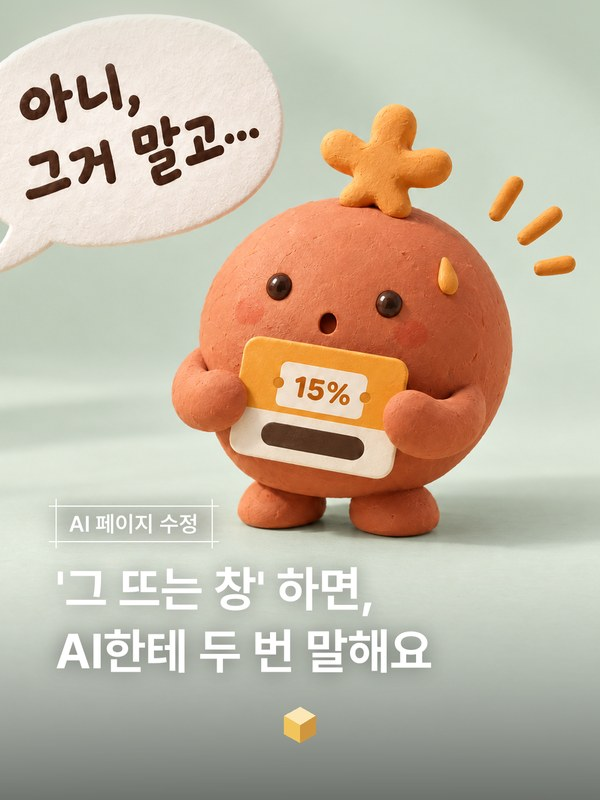
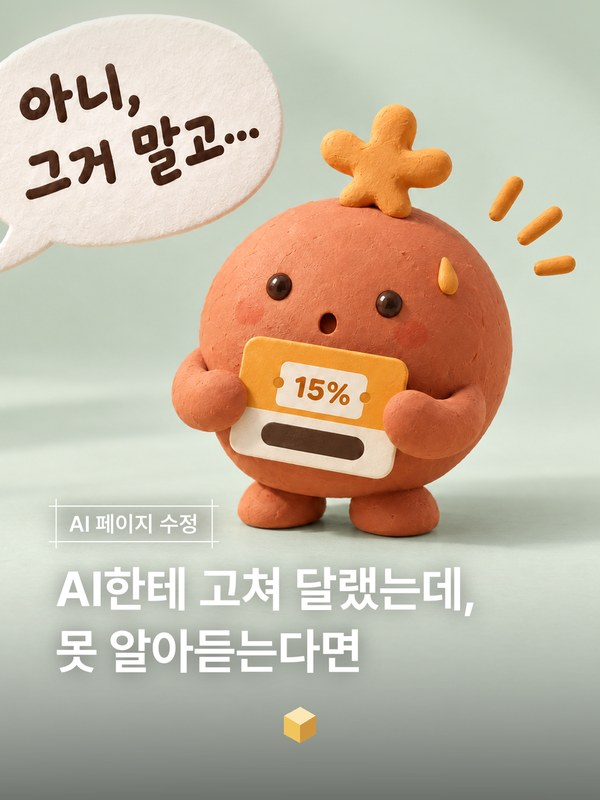
EP.19 제목 교체 — AI한테 고쳐 달랬는데, 못 알아듣는다면(노트 제목 · 목록 카드 · 커버) (목록 Soon! 유지)

Changed region(s): [[0.09, 0.6875, 0.81, 0.8438]]

diff --git a/ep/19/index.html b/ep/19/index.html
@@ -3,9 +3,9 @@
 <head>
 <meta charset="utf-8">
 <meta name="viewport" content="width=device-width, initial-scale=1">
-<title>EP.19 '그 뜨는 창' 하면, AI한테 두 번 말해요 · 이거 모르는 마케터 없게 해주세요</title>
+<title>EP.19 AI한테 고쳐 달랬는데, 못 알아듣는다면 · 이거 모르는 마케터 없게 해주세요</title>
 <meta name="description" content="AI로 만든 페이지를 고칠 때 '그 뜨는 창'이라고 하면 AI가 하나를 골라 고쳐요. 모달·토스트·드롭다운처럼 화면 이름으로 시키면 딱 그것만 바뀌어요. 화면 이름 카드 14장 + 이렇게 시키세요 예문 + 시험 결과.">
-<meta property="og:title" content="EP.19 '그 뜨는 창' 하면, AI한테 두 번 말해요">
+<meta property="og:title" content="EP.19 AI한테 고쳐 달랬는데, 못 알아듣는다면">
 <meta property="og:description" content="화면 이름 카드 14장 + 이렇게 시키세요 예문 + 9번 돌린 시험 결과.">
 <meta property="og:image" content="https://goofee-9p.github.io/ai-marketing-honey/assets/img/og.jpg">
 <link rel="icon" type="image/svg+xml" href="../../assets/img/logo.svg">
@@ -38,7 +38,7 @@
 
   <div class="hero">
     <span class="chip">EP.19 · 화면 이름</span>
-    <h1>'그 뜨는 창' 하면,<br><span class="hl">AI한테 두 번 말해요</span></h1>
+    <h1>AI한테 고쳐 달랬는데,<br><span class="hl">못 알아듣는다면</span></h1>
     <p class="lead">AI로 만든 이벤트 페이지에 쿠폰 창 · 장바구니 알림 · 설명 말풍선 · 용량 목록이 다 떠요. 여기서 "그 뜨는 창 좀 작게 해 줘"라고 세 번 시켰더니 <b>세 번 다 쿠폰 창을 줄였어요</b>. 내가 말한 게 장바구니 알림이었다면 엉뚱한 데가 바뀐 거예요. <b>"장바구니 토스트만 작게"처럼 이름으로 시키면 딱 그것만 바뀌었어요.</b> AI한테는, 아는 만큼 시킬 수 있어요.</p>
     <div class="meta"><span class="chip ghost">화면 이름 카드 14장</span><span class="chip ghost">이렇게 시키세요</span><span class="chip ghost">시험 결과</span></div>
   </div>

diff --git a/index.html b/index.html
@@ -42,7 +42,7 @@
       </div>
       <div class="ep soon" aria-label="EP.19 곧 공개">
         <img src="assets/img/ep19/cover_34.jpg" alt="EP.19 커버">
-        <div><div class="no">EP.19</div><div class="t">'그 뜨는 창' 하면, AI한테 두 번 말해요</div><div class="d">모달 · 토스트처럼 이름으로 시키면 딱 그것만 바뀌어요. 화면 이름 카드 14장 + 이렇게 시키세요 예문 + 9번 돌린 결과.</div></div>
+        <div><div class="no">EP.19</div><div class="t">AI한테 고쳐 달랬는데, 못 알아듣는다면</div><div class="d">모달 · 토스트처럼 이름으로 시키면 딱 그것만 바뀌어요. 화면 이름 카드 14장 + 이렇게 시키세요 예문 + 9번 돌린 결과.</div></div>
         <span class="badge">Soon!</span>
       </div>
       <div class="ep soon" aria-label="EP.18 곧 공개">
